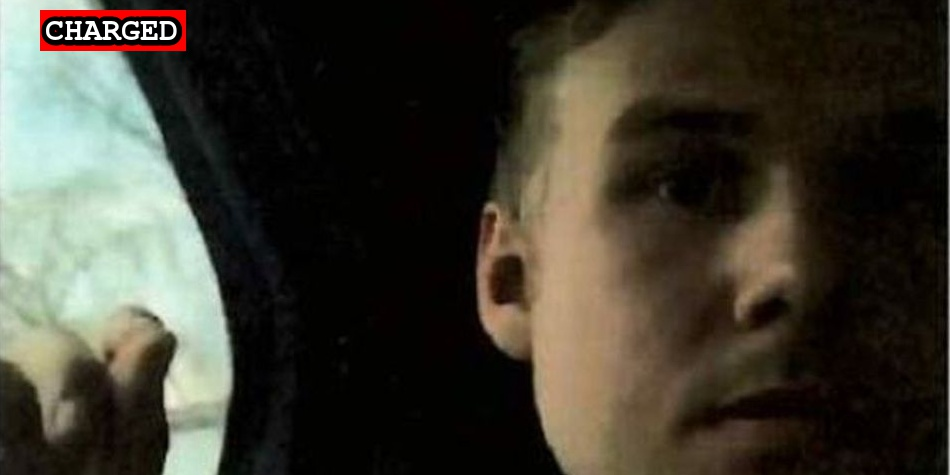
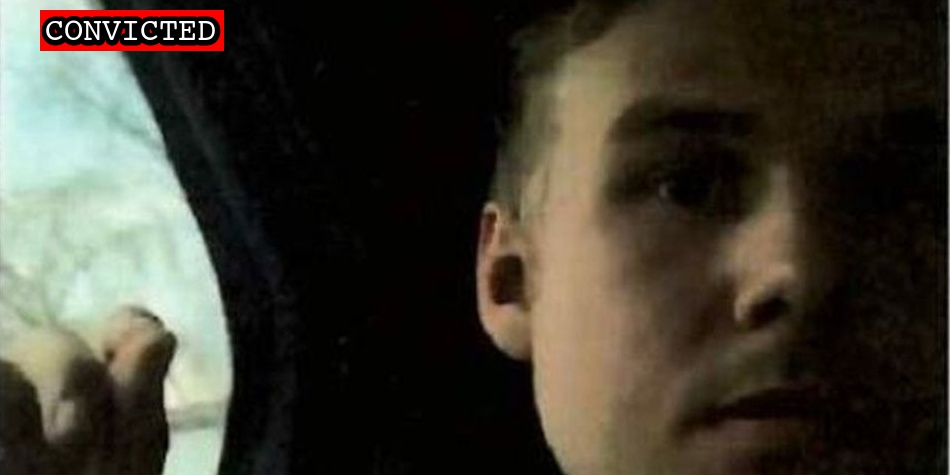
More convictions

Changed region(s): [[0.0305, 0.0, 0.2442, 0.1179]]

diff --git a/docs/_suspects/jordan-revlett.md b/docs/_suspects/jordan-revlett.md
@@ -4,16 +4,16 @@ lastName: Revlett
 hashtag: JordanRevlett
 aka:
 residence: Kentucky
-status: Charged
+status: Convicted
 date: 2021-01-25
 charged: 2021-01-25
 indicted:
-convicted: 
-sentenced: 
-dismissed: 
+convicted: 2021-01-14
+sentenced:
+dismissed:
 deceased:
-plea_hearing:
-sentencing:
+plea_hearing: 2021-01-14
+sentencing: 2022-04-22
 age: 23
 occupation:
 affiliations:
@@ -34,8 +34,13 @@ published: true
 caseNumber: 1:21-cr-281
 videos:
 charges:
+  - code: 18 USC § 5104(e)(2)(G)
+    title: Parading, demonstrating or picketing in a Capitol building
+    url: https://www.law.cornell.edu/uscode/text/40/5104
+    felony: false
 sentence:
 ---
+
 - [News Report](https://www.wkyt.com/2021/01/26/feds-charge-5th-kentucky-resident-in-capitol-violence/)
 - [Complaint](https://www.justice.gov/opa/page/file/1361051/download)
 - [Statement of Facts](https://www.justice.gov/opa/page/file/1361051/download)

diff --git a/docs/_suspects/hunter-ehmke.md b/docs/_suspects/hunter-ehmke.md
@@ -8,12 +8,12 @@ status: Convicted
 date: 2021-01-13
 charged: 2021-01-28
 indicted: 2021-01-27
-convicted: 2021-01-14
+convicted: 2022-01-14
 sentenced:
 dismissed:
 deceased:
 plea_hearing: 2021-01-14
-sentencing:
+sentencing: 2022-05-11
 age: 20
 occupation:
 affiliations:
